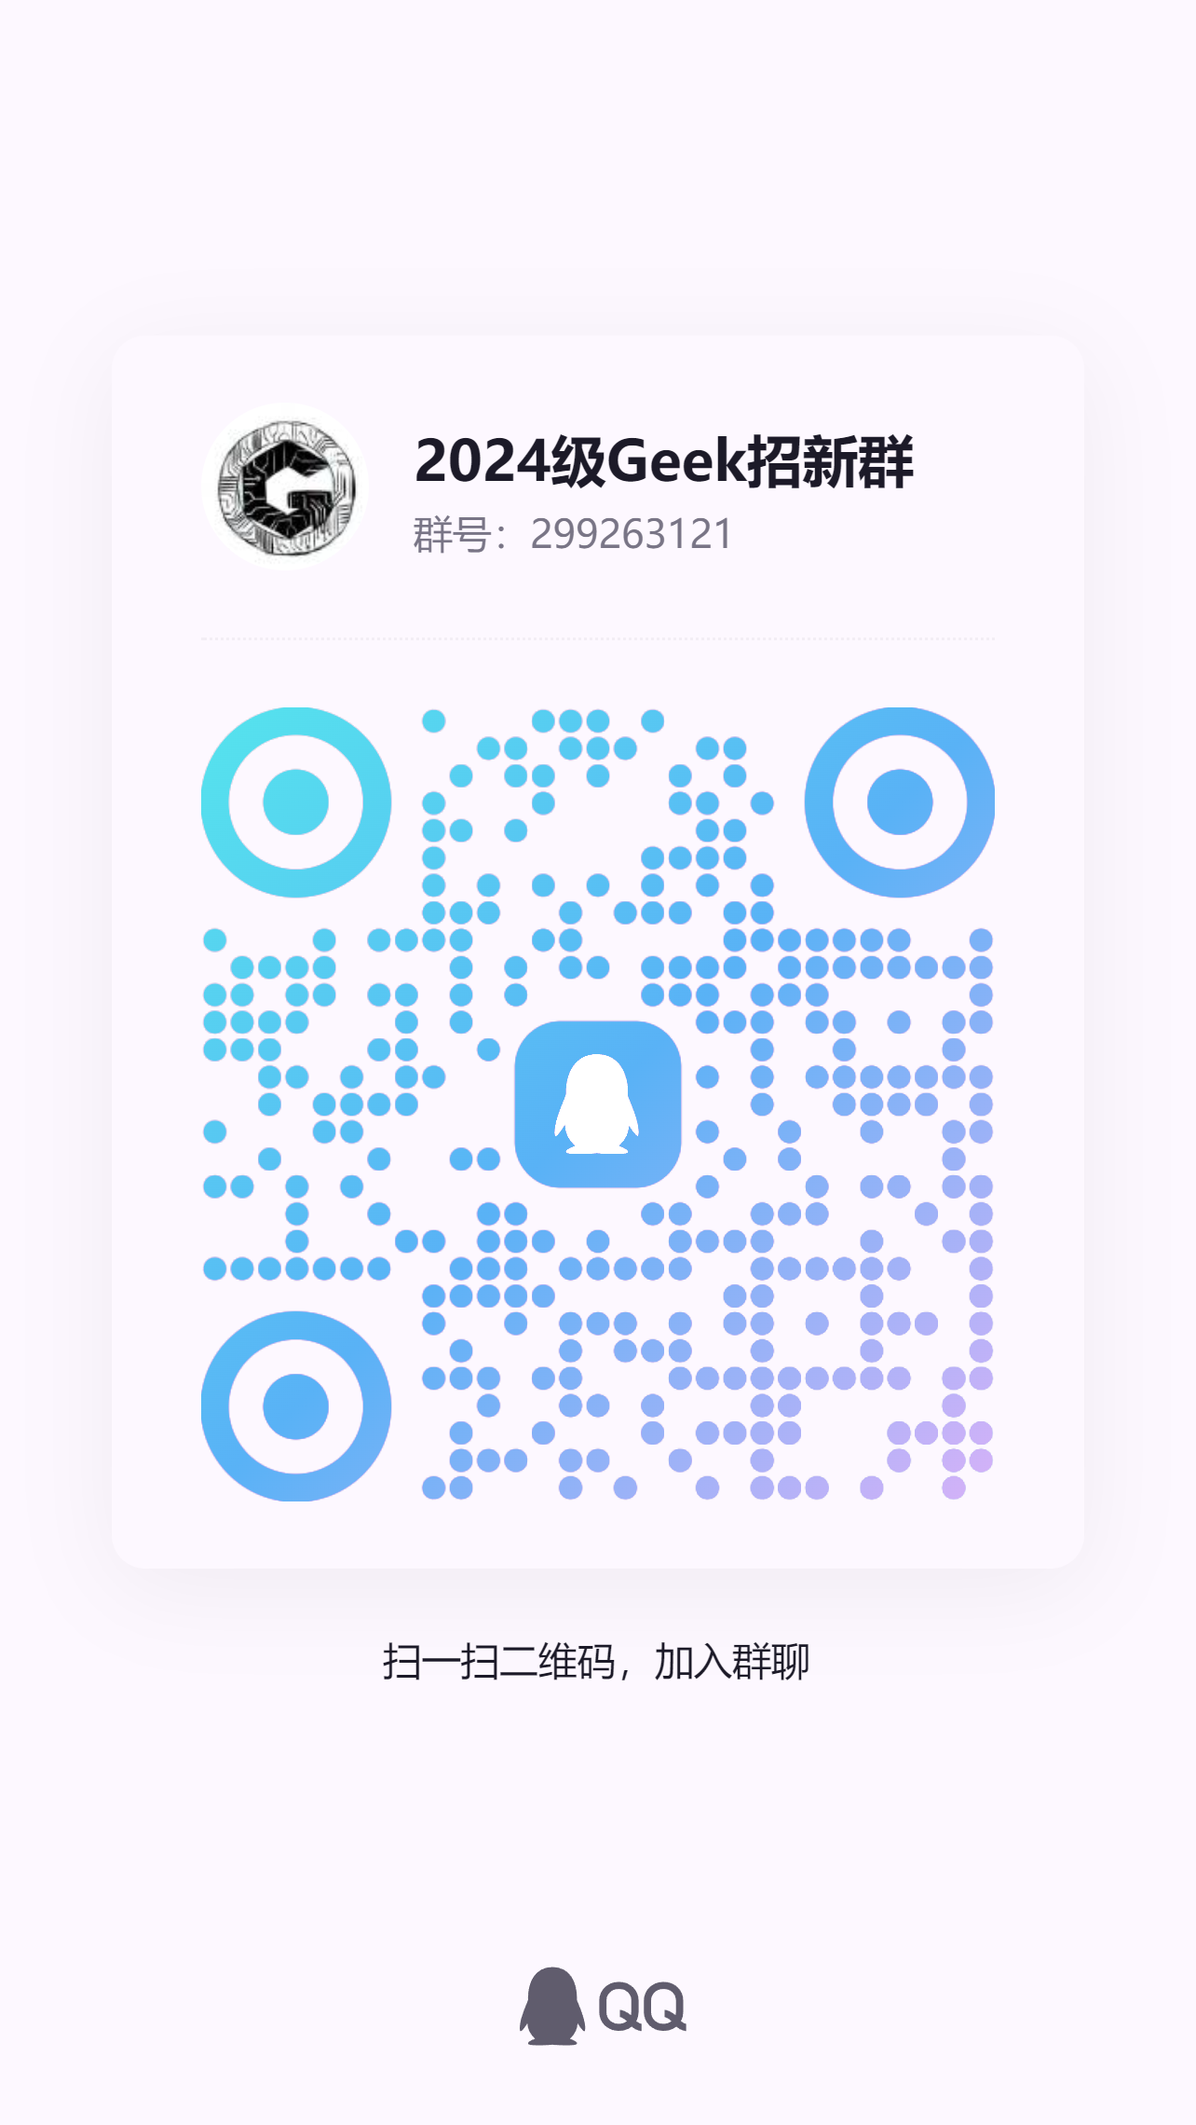
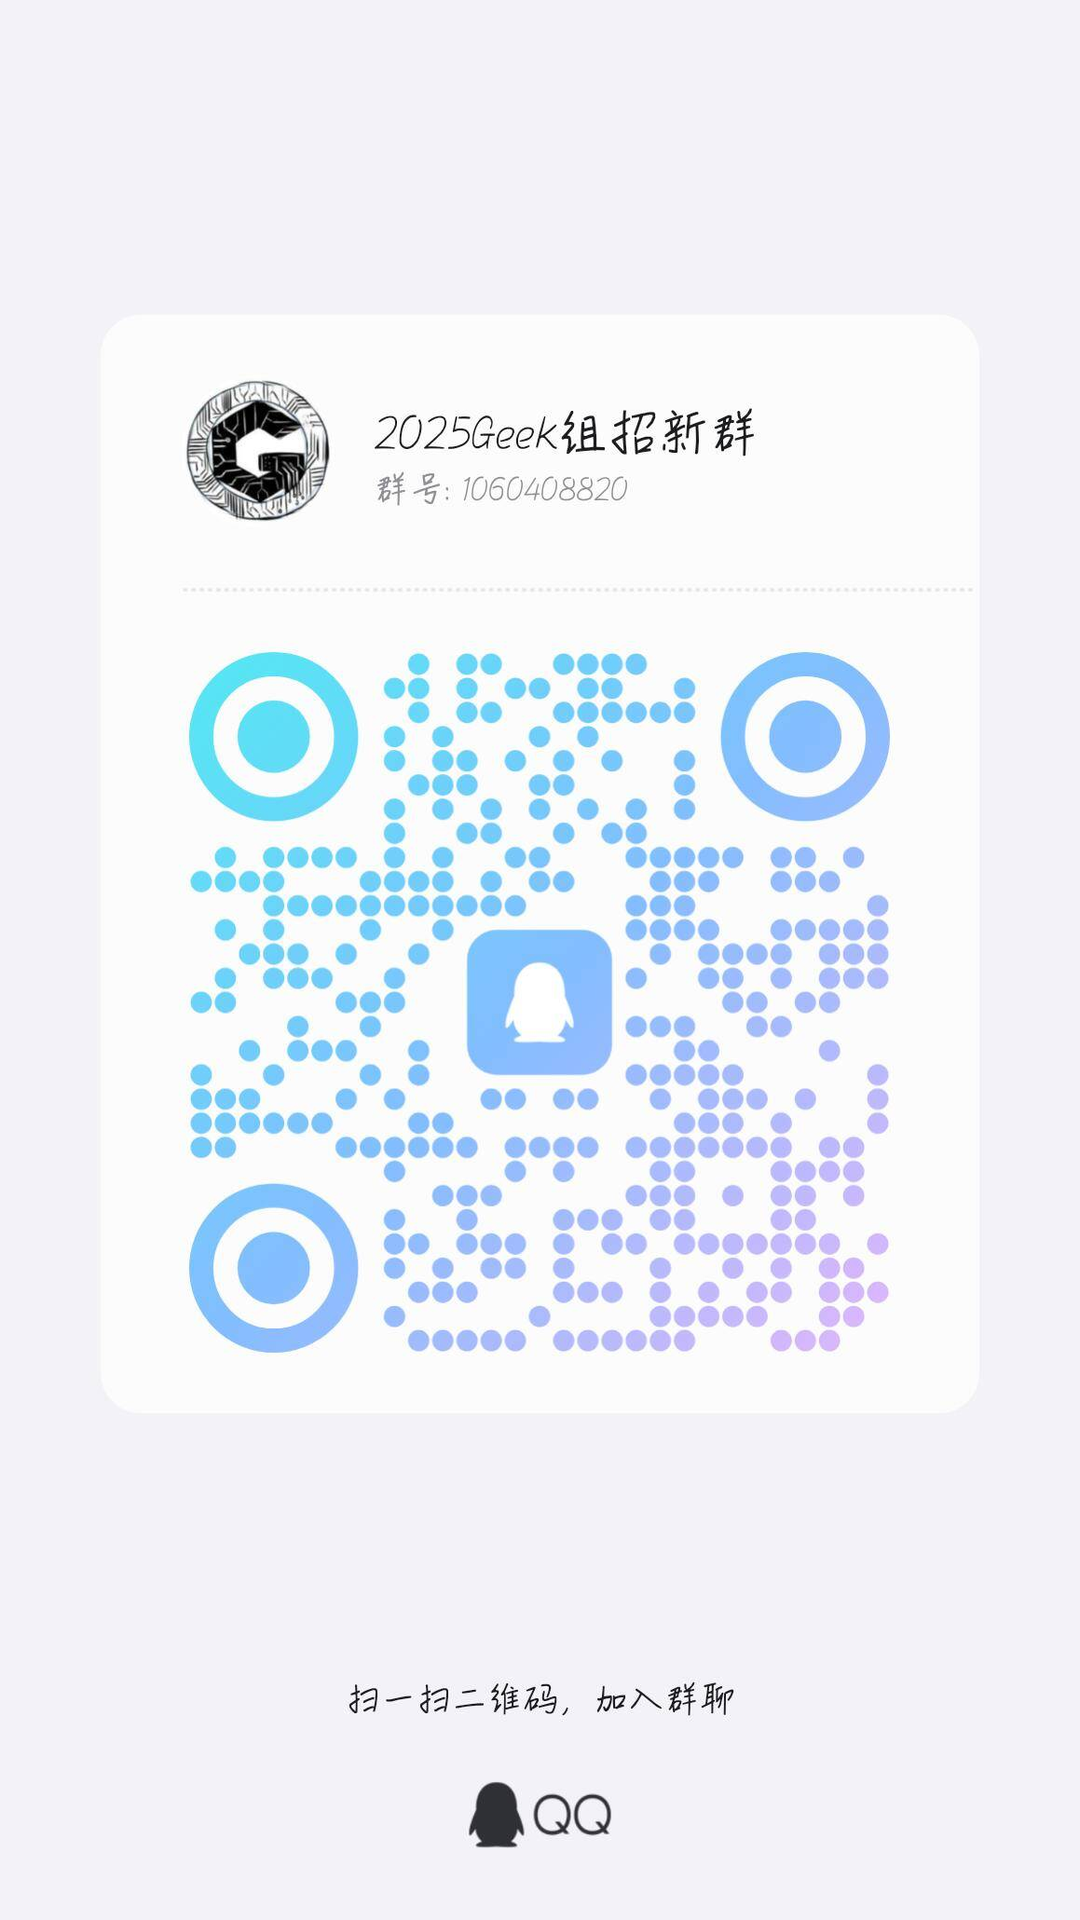
9.18update

diff --git a/index.html b/index.html
@@ -19,6 +19,9 @@
                     <div id="intro">
                         <a href="javascript:;" class="intro_a">Introduction <i class="fa fa-angle-down"></i></a>
                     </div>
+                    <div class="dropdown-image">
+                        <img src="./img/QRcode.png" alt="招生群二维码">
+                    </div>
                 </li>
                 <li id="about">
                     <a href="javascript:;">About US <i class="fa fa-user"></i></a>
@@ -47,6 +50,7 @@
     <div id="backgoundbox">
         <div id="intro-box" class="clearfix">
             <div id="introplace">Introduction<i class="fa fa-angle-down"></i></div>
+            <!-- 后端开发 -->
             <div id="modal1" class="modal pc">
                 <div class="modal-content">
                     <div class="modal-pic-left">
@@ -54,24 +58,24 @@
                         <img data-src="./img/帖老师.png" alt="">
                      </div>
                      <div class="modal-text">
-                        <h1>程序开发猿</h1>
+                        <h1>后端开发</h1>
                         <h2>“Stay Hungry，Stay Foolish”</h2>
-                        <p>前端（只面向23级招生）：前端开发是创建Web或App视觉界面呈现给用户的过程。通过HTML， CSS和JavaScript以及衍生出来的多种技术实现用户界面交互。</p>
-                        <p>后端：通常也称服务器端开发。我们使用Go、python、Java等语言对项目进行开发，其中流行于我们组后端方向的Go语言将采用Gin/Gecho等高性能Web框架，GORM用于数据库操作，Redis负责缓存，WebSocket实现实时通讯。Go的高效并发和简洁语法使其在后端开发中表现出色。</p>
+                        <p>后端：通常也称服务器端开发。我们主要使用Go语言进行项目开发，Go在组内后端方向中十分流行，常配合Gin/Echo等高性能Web框架,使用GORM进行数据库操作，Redis做缓存，WebSocket处理实时通讯。凭借高效的并发模型和简洁的语法，Go在后端开发中表现尤为出色</p>
                         <p style="font-weight: 800;color: rgb(60, 53, 53);">我们的特点：我们常常一起合作参与到项目开发与比赛中，但我们不满足于此，我们最热衷于开发所使用技术背后的原理学习与研究。</p>
                      </div>   
                     </div>
                     <span class="close-btn" id="close1">x</span>
                 </div>
             </div>
+            <!-- 产品经理 -->
             <div id="modal2" class="modal pc">
                 <div class="modal-content">
                     <div class="modal-pic-left">
                      <div class="modal-text">
                         <h1>产品经理</h1>
                         <h2>"好的软件的特征:明明没用过，<br> 但总觉得用过似的。"</h2>
-                        <p>PM是针对某一项或是某一类的产品进行规划和管理的人员。PM需要拥有缜密的产品逻辑思维，研究用户心理，负责产品的整个生命周期。PM参与产品的UI和交互设计，为设计和开发确定产品原型，能够将产品变得有个性,操作变得舒适简单、自由。PM需要一定的文档能力和沟通能力，能够在团队合作的过程中跟各个角色进行有效沟通。</p>
-                        <p style="font-weight: 800;color: rgb(60, 53, 53);">我们的特点：我们常常一起合作参与到项目开发与比赛中，但我们不满足于此，我们最热衷于开发所使用技术背后的原理学习与研究。</p>
+                        <p>PM（只面向24级招生）:PM是针对某一项或是某一类的产品进行规划和管理的人员。PM需要拥有缜密的产品逻辑思维，研究用户心理，负责产品的整个生命周期。PM参与产品的UI和交互设计，为设计和开发确定产品原型，能够将产品变得有个性,操作变得舒适简单、自由。PM需要一定的文档能力和沟通能力，能够在团队合作的过程中跟各个角色进行有效沟通。</p>
+                        <p style="font-weight: 800;color: rgb(60, 53, 53);">我们的特点：我们善于在团队中协调不同角色，关注用户体验与产品逻辑的结合。不仅注重功能实现，更注重产品能否真正解决用户的问题。</p>
                      </div> 
                      <div class="modal-pic">
                         <img data-src="./img/产品.png" alt="">
@@ -80,14 +84,15 @@
                     <span class="close-btn" id="close2">x</span>
                 </div>
             </div>
+            <!-- 安全工程师 -->
             <div id="modal3" class="modal pc">
                 <div class="modal-content">
                     <div class="modal-pic-left">
                      <div class="modal-text">
-                        <h1>游戏开发</h1>
+                        <h1>安全工程师</h1>
                         <h2>"TECH OTAKUS SAVE THE WORLD"</h2>
-                        <p>对游戏开发的热爱和追求，使我们相聚于此。涉及计算机图形学的学习，我们使用物理模拟引擎Unity开发我们所追求的世界，一个故事，一个角色，在我们的世界里改变现实，创造新的可能，我们参与，我们改变，我们创造...</p>
-                        <p style="font-weight: 800;color: rgb(60, 53, 53);">我们的特点：我们常常一起合作参与到项目开发与比赛中，但我们不满足于此，我们最热衷于开发所使用技术背后的原理学习与研究。</p>
+                        <p>安全方向分为Web安全和二进制安全，二者都要求从业者具备极高的技术能力和扎实的基础。Web安全主要防护网络应用的攻击，要求熟悉前后端技术、常见漏洞及加密认证机制；而二进制安全则深入到操作系统和底层代码，涉及漏洞挖掘、逆向工程等，需要精通汇编、调试与内存管理。不论哪个方向，扎实的理论知识与丰富的实践经验都是必不可少的，只有持续学习与积累，才能在信息安全领域立足。</p>
+                        <p style="font-weight: 800;color: rgb(60, 53, 53);">我们的特点：安全方向注重深入的技术理解和高强度的实践能力，要求从业者具备扎实的基础知识和应对复杂漏洞的能力。</p>
                      </div>
                      <div class="modal-pic">
                         <img data-src="./img/游戏.png" alt="">
@@ -96,6 +101,7 @@
                     <span class="close-btn" id="close3">x</span>
                 </div>
             </div>
+            <!-- 前端开发 -->
             <div id="modal4" class="modal pc">
                 <div class="modal-content">
                     <div class="modal-pic-left">
@@ -103,29 +109,30 @@
                         <img data-src="./img/设计师.png" alt="">
                      </div>
                      <div class="modal-text">
-                        <h1>安全</h1>
+                        <h1>前端开发</h1>
                         <h2>"路漫漫其修远兮，非大毅力者不能"</h2>
-                        <p>安全方向分为Web安全和二进制安全，二者都要求从业者具备极高的技术能力和扎实的基础。Web安全主要防护网络应用的攻击，要求熟悉前后端技术、常见漏洞及加密认证机制；而二进制安全则深入到操作系统和底层代码，涉及漏洞挖掘、逆向工程等，需要精通汇编、调试与内存管理。不论哪个方向，扎实的理论知识与丰富的实践经验都是必不可少的，只有持续学习与积累，才能在信息安全领域立足。</p>
-                        <p style="font-weight: 800;color: rgb(60, 53, 53);">我们的特点：安全方向注重深入的技术理解和高强度的实践能力，要求从业者具备扎实的基础知识和应对复杂漏洞的能力。</p>
+                        <p>前端：前端开发是创建Web或App界面并呈现给用户的过程。前端不仅仅是页面展示，更是用户与产品交互的核心环节。开发者需要掌握HTML、CSS和JavaScript等基础技术，并结合Vue、React等现代框架实现复杂的交互逻辑与功能。前端方向还涉及性能优化、跨端适配与可访问性设计，要求开发者在界面美观与运行效率之间取得平衡。随着技术的发展，前端早已不仅是“还原设计”，而是承载用户体验和业务逻辑的重要一环。</p>   
+                        <p style="font-weight: 800;color: rgb(60, 53, 53);">我们的特点：我们常常一起合作参与到项目开发与比赛中，但我们不满足于此，我们更注重探索界面交互背后的原理与技术。</p>
                      </div>   
                     </div>
                     <span class="close-btn" id="close4">x</span>
                 </div>
             </div>
+            <!-- 后端开发 -->
             <div id="card1" class="pic-text">
                 <div id="pic-text">
                     <img data-src="./img/帖老师.png" alt="">
                     <div>
-                        <h1>程序开发猿</h1>
+                        <h1>后端开发</h1>
                         <h2>“Stay Hungry，Stay Foolish”</h2>
                     </div>
                 </div>
                 <div id="intro-text">
-                    <p>前端（只面向23级招生）：前端开发是创建Web或App视觉界面呈现给用户的过程。通过HTML， CSS和JavaScript以及衍生出来的多种技术实现用户界面交互。</p>
-                    <p style="margin-top: 5px;">后端：通常也称服务器端开发。我们使用Go、python、Java等语言对项目进行开发，其中流行于我们组后端方向的Go语言将采用Gin/Gecho等高性能Web框架，GORM用于数据库操作，Redis负责缓存，WebSocket实现实时通讯。Go的高效并发和简洁语法使其在后端开发中表现出色。</p>
-                    <p style="font-weight: 800;color: rgb(198, 168, 226);">我们的特点：我们常常一起合作参与到项目开发与比赛中，但我们不满足于此，我们最热衷于开发所使用技术背后的原理学习与研究。</p>
+                     <p>后端：通常也称服务器端开发。我们主要使用Go语言进行项目开发，Go在组内后端方向中十分流行，常配合Gin/Echo等高性能Web框架,使用GORM进行数据库操作，Redis做缓存，WebSocket处理实时通讯。凭借高效的并发模型和简洁的语法，Go在后端开发中表现尤为出色</p>
+                    <p style="font-weight: 800;color: rgb(60, 53, 53);">我们的特点：我们常常一起合作参与到项目开发与比赛中，但我们不满足于此，我们最热衷于开发所使用技术背后的原理学习与研究。</p>
                 </div>
             </div>
+            <!-- 产品经理 -->
             <div id="card2" class="pic-text">
                 <div id="pic-text">
                     <img data-src="./img/产品.png" alt="">
@@ -135,34 +142,36 @@
                     </div>
                 </div>
                 <div id="intro-text">
-                    <p>PM是针对某一项或是某一类的产品进行规划和管理的人员。PM需要拥有缜密的产品逻辑思维，研究用户心理，负责产品的整个生命周期。PM参与产品的UI和交互设计，为设计和开发确定产品原型，能够将产品变得有个性,操作变得舒适简单、自由。PM需要一定的文档能力和沟通能力，能够在团队合作的过程中跟各个角色进行有效沟通。</p>
-                    <p style="font-weight: 800;color: rgb(198, 168, 226);">我们的特点：我们常常一起合作参与到项目开发与比赛中，但我们不满足于此，我们最热衷于开发所使用技术背后的原理学习与研究。</p>
+                    <p>PM（只面向24级招生）:PM是针对某一项或是某一类的产品进行规划和管理的人员。PM需要拥有缜密的产品逻辑思维，研究用户心理，负责产品的整个生命周期。PM参与产品的UI和交互设计，为设计和开发确定产品原型，能够将产品变得有个性,操作变得舒适简单、自由。PM需要一定的文档能力和沟通能力，能够在团队合作的过程中跟各个角色进行有效沟通。</p>
+                    <p style="font-weight: 800;color: rgb(198, 168, 226);">我们的特点： 我们善于在团队中协调不同角色，关注用户体验与产品逻辑的结合。不仅注重功能实现，更注重产品能否真正解决用户的问题。</p>
                 </div>
             </div>
+            <!-- 安全工程师 -->
             <div id="card3" class="pic-text">
                 <div id="pic-text">
                     <img data-src="./img/游戏.png" alt="">
                     <div>
-                        <h1>游戏开发</h1>
+                        <h1>安全工程师</h1>
                         <h2>"TECH OTAKUS SAVE THE WORLD"</h2>
-                    </div>
-                </div>
-                <div id="intro-text">
-                    <p>对游戏开发的热爱和追求，使我们相聚于此。涉及计算机图形学的学习，我们使用物理模拟引擎Unity开发我们所追求的世界，一个故事，一个角色，在我们的世界里改变现实，创造新的可能，我们参与，我们改变，我们创造...</p>
-                    <p style="font-weight: 800;color: rgb(198, 168, 226);">我们的特点：我们常常一起合作参与到项目开发与比赛中，但我们不满足于此，我们最热衷于开发所使用技术背后的原理学习与研究。</p>
-                </div>
-            </div>
-            <div id="card4" class="pic-text">
-                <div id="pic-text">
-                    <img data-src="./img/设计师.png" alt="">
-                    <div>
-                        <h1>安全</h1>
-                        <h2>"路漫漫其修远兮，非大毅力者不能"</h2>
                     </div>
                 </div>
                 <div id="intro-text">
                     <p>安全方向分为Web安全和二进制安全，二者都要求从业者具备极高的技术能力和扎实的基础。Web安全主要防护网络应用的攻击，要求熟悉前后端技术、常见漏洞及加密认证机制；而二进制安全则深入到操作系统和底层代码，涉及漏洞挖掘、逆向工程等，需要精通汇编、调试与内存管理。不论哪个方向，扎实的理论知识与丰富的实践经验都是必不可少的，只有持续学习与积累，才能在信息安全领域立足。</p>
                     <p style="font-weight: 800;color: rgb(198, 168, 226);">我们的特点：安全方向注重深入的技术理解和高强度的实践能力，要求从业者具备扎实的基础知识和应对复杂漏洞的能力。</p>
+                </div>
+            </div>
+            <!-- 前端开发 -->
+            <div id="card4" class="pic-text">
+                <div id="pic-text">
+                    <img data-src="./img/设计师.png" alt="">
+                    <div>
+                        <h1>前端开发</h1>
+                        <h2>"路漫漫其修远兮，非大毅力者不能"</h2>
+                    </div>
+                </div>
+                <div id="intro-text">
+                    <p>前端：前端开发是创建Web或App界面并呈现给用户的过程。前端不仅仅是页面展示，更是用户与产品交互的核心环节。开发者需要掌握HTML、CSS和JavaScript等基础技术，并结合Vue、React等现代框架实现复杂的交互逻辑与功能。前端方向还涉及性能优化、跨端适配与可访问性设计，要求开发者在界面美观与运行效率之间取得平衡。随着技术的发展，前端早已不仅是“还原设计”，而是承载用户体验和业务逻辑的重要一环。</p>
+                    <p style="font-weight: 800;color: rgb(198, 168, 226);">我们的特点：我们常常一起合作参与到项目开发与比赛中，但我们不满足于此，我们更注重探索界面交互背后的原理与技术。</p>
                 </div>
             </div>
 
@@ -179,7 +188,7 @@
                     </li>
                     <li class="aboutslide" id="diversity" >
                         <img data-src="./img/diversity.png"/>
-                        <p>多元化是我们的特色之一。在这里，你可以拥有多种方向的选择：前端与后端开发、产品经理、游戏开发以及游戏美术等等。</p>
+                        <p>多元化是我们的特色之一。在这里，你可以自由选择前端、后端、产品、安全等多个方向，找到最适合自己的发展路径。</p>
                     </li>
                     <li class="aboutslide" id="spech">
                         <img data-src="./img/spech.png"/>
@@ -205,7 +214,7 @@
                 <p id="ps">ps:非新思路统招只有通过发送邮件自我介绍后，收到邮件回执后才会被允许进群,在读学生,都可邮件到newthread_geek@outlook.com报名加入。<br>(信中需备注个人基本信息及意向方向,此招新活动为长期招新)</p>
             </div>
                 <div id="a-li">
-                    <a  href="https://jq.qq.com/?_wv=1027&k=5H2GDXV1" target="_blank">QQ-Group<i class="fa fa-qq"></i></a>
+                    <a  href="https://qun.qq.com/universal-share/share?ac=1&authKey=H9mGVta74oRdWTpTjFRbHvKGTxcS5E%2Fa6r1SFECt3miK5qRHC%2FzjHJ2sXWaSr8cw&busi_data=eyJncm91cENvZGUiOiIxMDYwNDA4ODIwIiwidG9rZW4iOiJkS3U0QmgyenRDSUlGdlRRQitVQlJLcWl1NTRlREl0b0xheWJWWHZpMWhTaWtEbEhrWXMxdERDbklGVWkzUkVSIiwidWluIjoiMTEzNDU0NzIzNyJ9&data=aNYxR-3BA_mUdErz8F37EXZQ_a-yK4V3z5vceIzWLakCELB0ikyi635T40WagVG-SwkZrjaB79hKO2Pyaab-0A&svctype=4&tempid=h5_group_info" target="_blank">QQ-Group<i class="fa fa-qq"></i></a>
                     <a id="email">E-mail<i class="fa fa-envelope"></i></a>
                     <a href="https://www.bilibili.com/video/BV1GJ411x7h7" target="_blank">Github<i class="fa fa-github"></i></a>
                 </div>

diff --git a/css/pc.css b/css/pc.css
@@ -706,3 +706,41 @@ nav {
   top: 10px;
   z-index: 999;
 }
+
+/*允许下拉层超出导航条显示*/
+nav, #top-nav { overflow: visible; }
+
+/*触发器：让 li 成为定位参考*/
+#introduction { position: relative; }
+
+/* 下拉层 */
+#introduction .dropdown-image{
+  position: absolute;
+  top: 100%;
+  left: 0;
+  width: 100%;
+
+  max-height: 0;            
+  overflow: hidden;
+
+  background: rgba(255,255,255,0.95);
+  border-radius: 8px;
+  box-shadow: 0 4px 10px rgba(0,0,0,.15);
+  z-index: 1000;
+  transition: max-height .4s ease-in-out, opacity .3s ease;
+
+  opacity: 0;                 
+}
+
+#introduction:hover .dropdown-image,
+#introduction:focus-within .dropdown-image{
+  max-height: 600px;         
+  opacity: 1;
+}
+
+#introduction .dropdown-image img{
+  display: block;
+  width: 100%;
+  height: auto;
+  border-radius: 10px;
+}
